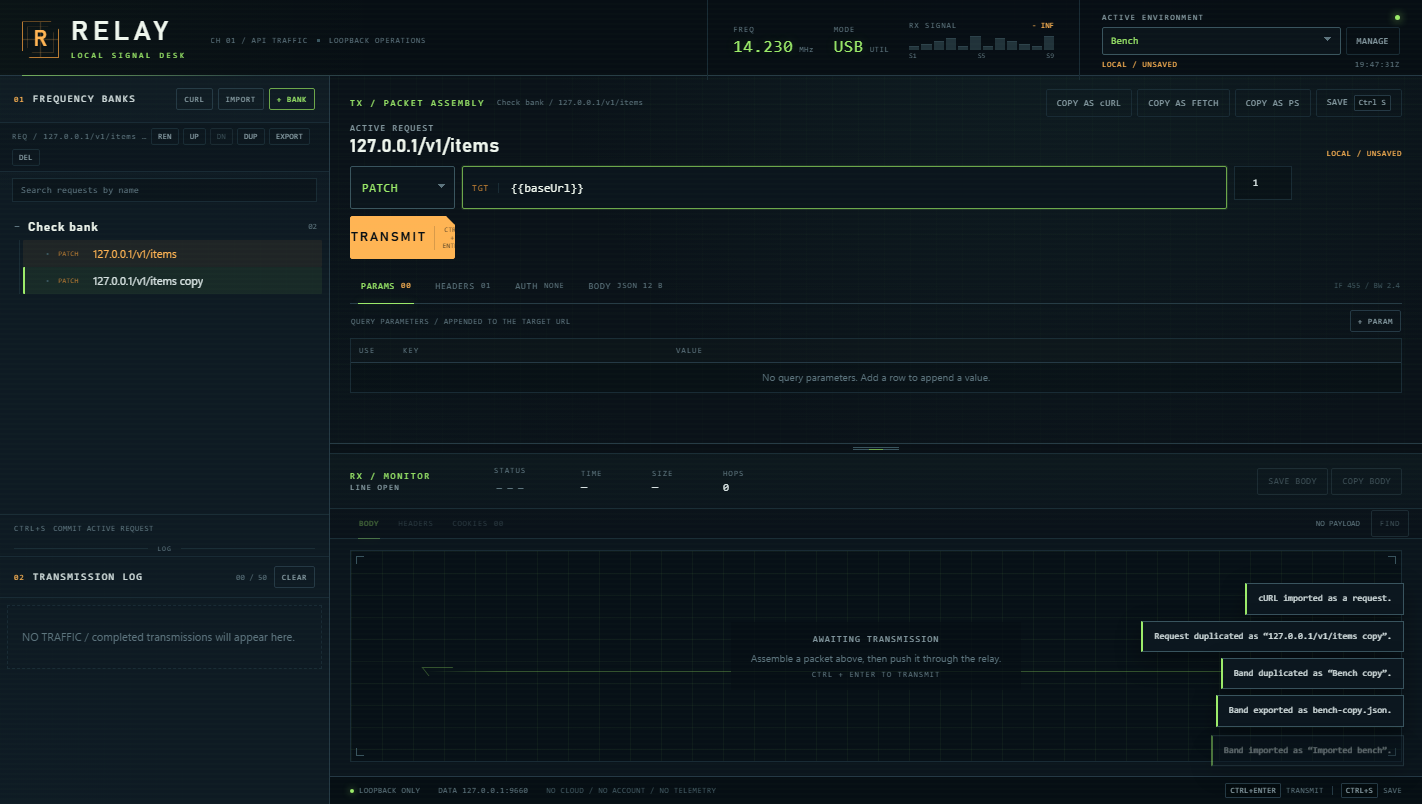
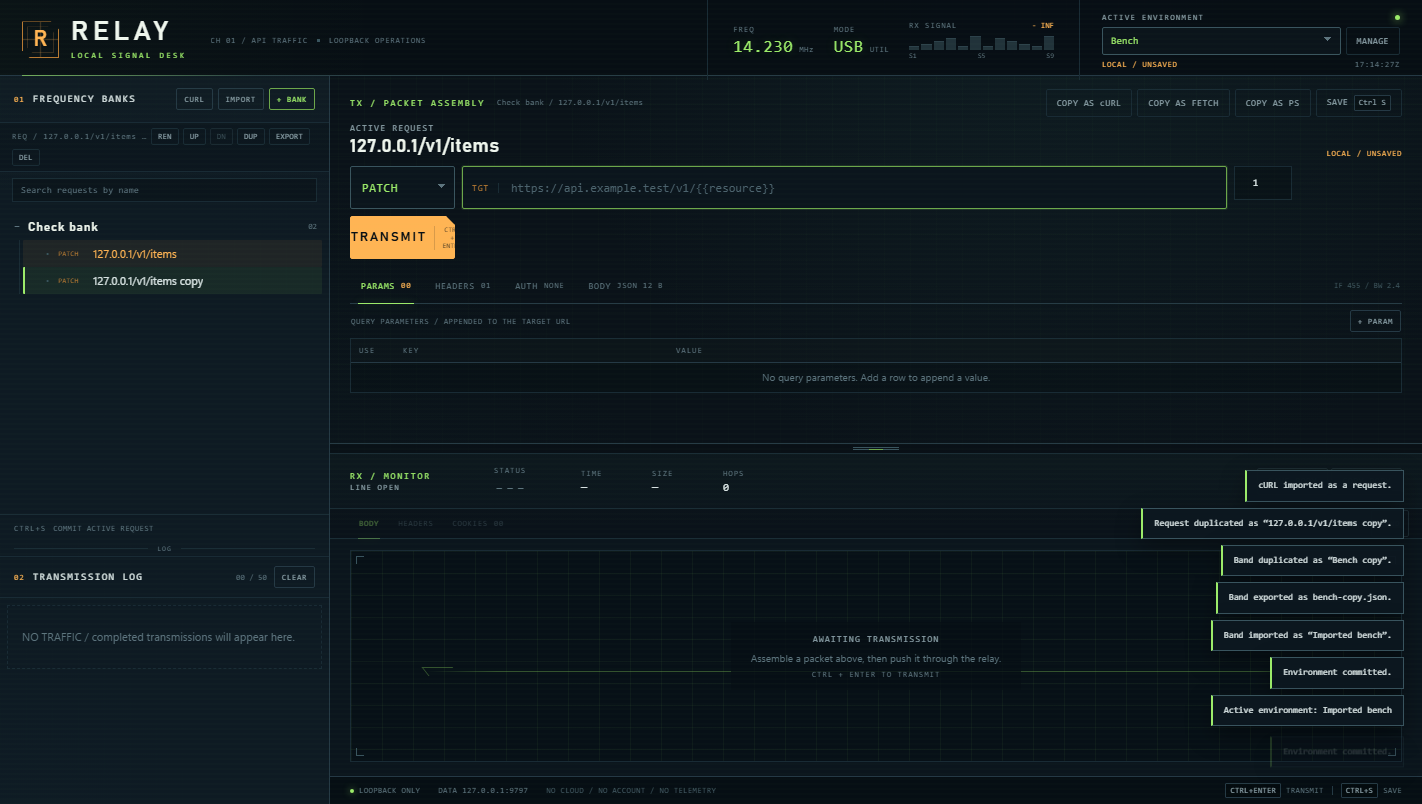
Storefront 1.16.0: nested environments

diff --git a/README.md b/README.md
@@ -17,7 +17,7 @@ A local API client with a loopback proxy, no account and no cloud sync.
 
 </div>
 
-> **New — 1.15.0** — copy any request as a PowerShell Invoke-RestMethod snippet, forms included.
+> **New — 1.16.0** — environments that extend a parent band and inherit its variables.
 > [Changelog →](CHANGELOG.md)
 
 ---
@@ -36,7 +36,7 @@ A local API client with a loopback proxy, no account and no cloud sync.
 |---|---|
 | **Frequency banks** | Searchable collections, folders and requests with duplicate and move controls. |
 | **Request builder** | Method, URL, per-request timeout, headers, auth, JSON/text or multipart form data. |
-| **Environments** | Named variable sets with {{autocomplete}}, duplicate and JSON export/import; unresolved variables warn before send and link to the manager. |
+| **Environments** | Named variable sets with {{autocomplete}}, duplicate and JSON export/import; a band can extend a parent and inherit its variables; unresolved variables warn before send and link to the manager. |
 | **Loopback proxy** | CORS-free sends with timeout, redirect, size caps and metadata-host blocking. |
 | **RX monitor** | Status, time, size, hops, headers, parsed cookies, a collapsible JSON tree, pretty/raw body, Ctrl+F find and save-to-file. |
 | **Transmission log** | The last 50 requests, persisted and clickable. |
@@ -57,7 +57,7 @@ A local API client with a loopback proxy, no account and no cloud sync.
 
 ## Install
 
-1. Download **Relay-1.15.0-win32-x64.zip** from [Releases](https://github.com/KHHH2312/relay/releases/latest).
+1. Download **Relay-1.16.0-win32-x64.zip** from [Releases](https://github.com/KHHH2312/relay/releases/latest).
 2. Verify it against `SHA256SUMS.txt`:
    ```powershell
    Get-FileHash .\Relay-*-win32-x64.zip -Algorithm SHA256
@@ -77,8 +77,8 @@ A local API client with a loopback proxy, no account and no cloud sync.
 
 ## Verified
 
-- Model/API suite: 89 checks green, including cookie forwarding, fetch and PowerShell snippets and the echo proxy.
-- Browser golden path: 38 checks green — copy-as-fetch, copy-as-PowerShell, JSON tree, cookies, preflight, multipart send and find-in-body.
+- Model/API suite: 100 checks green, including nested environment inheritance, cycle refusal, cookie forwarding, fetch and PowerShell snippets and the echo proxy.
+- Browser golden path: 44 checks green — nested bands inheriting into the variable picker, copy-as-fetch, copy-as-PowerShell, JSON tree, cookies, preflight, multipart send and find-in-body.
 - Earlier flow: 200 / 5 ms / 307 B response, no console exceptions.
 - Packaged app passes the source-parity integrity gate and ships with SHA-256 sums and a per-file manifest.
 
